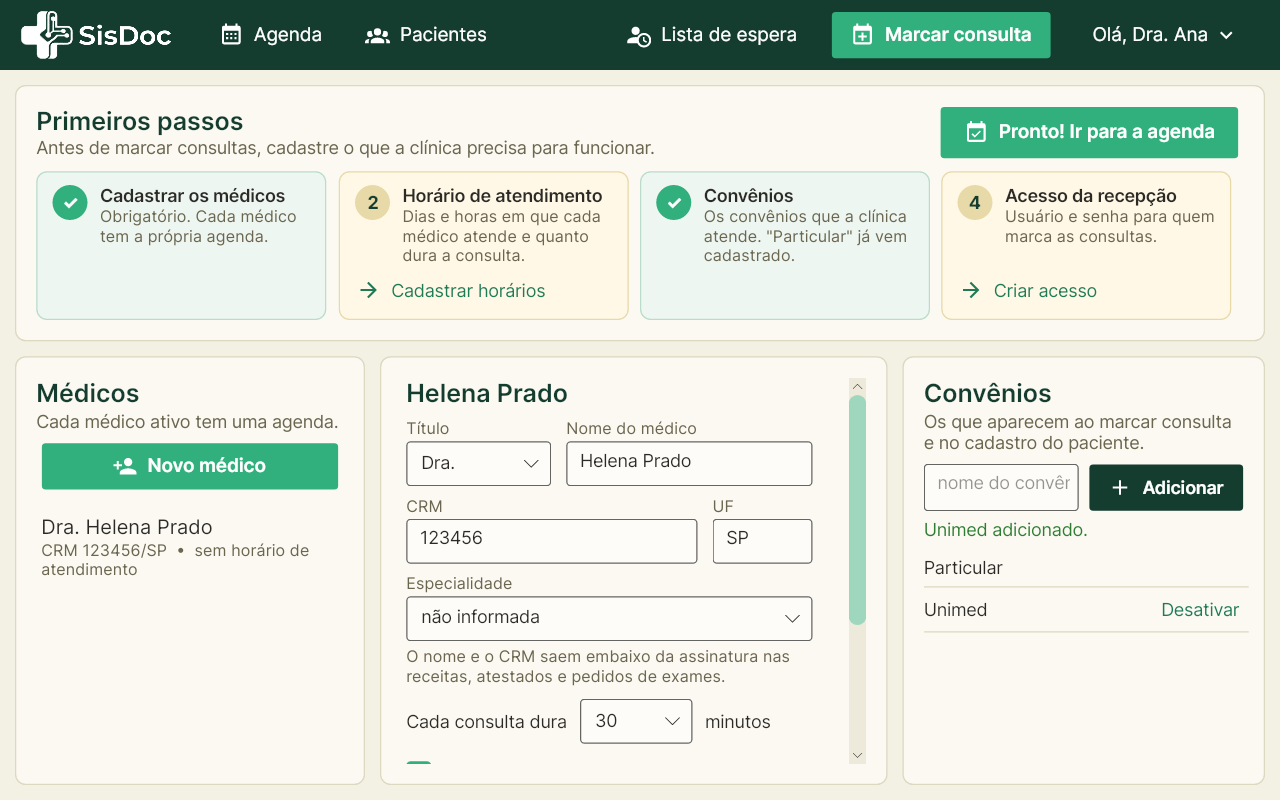
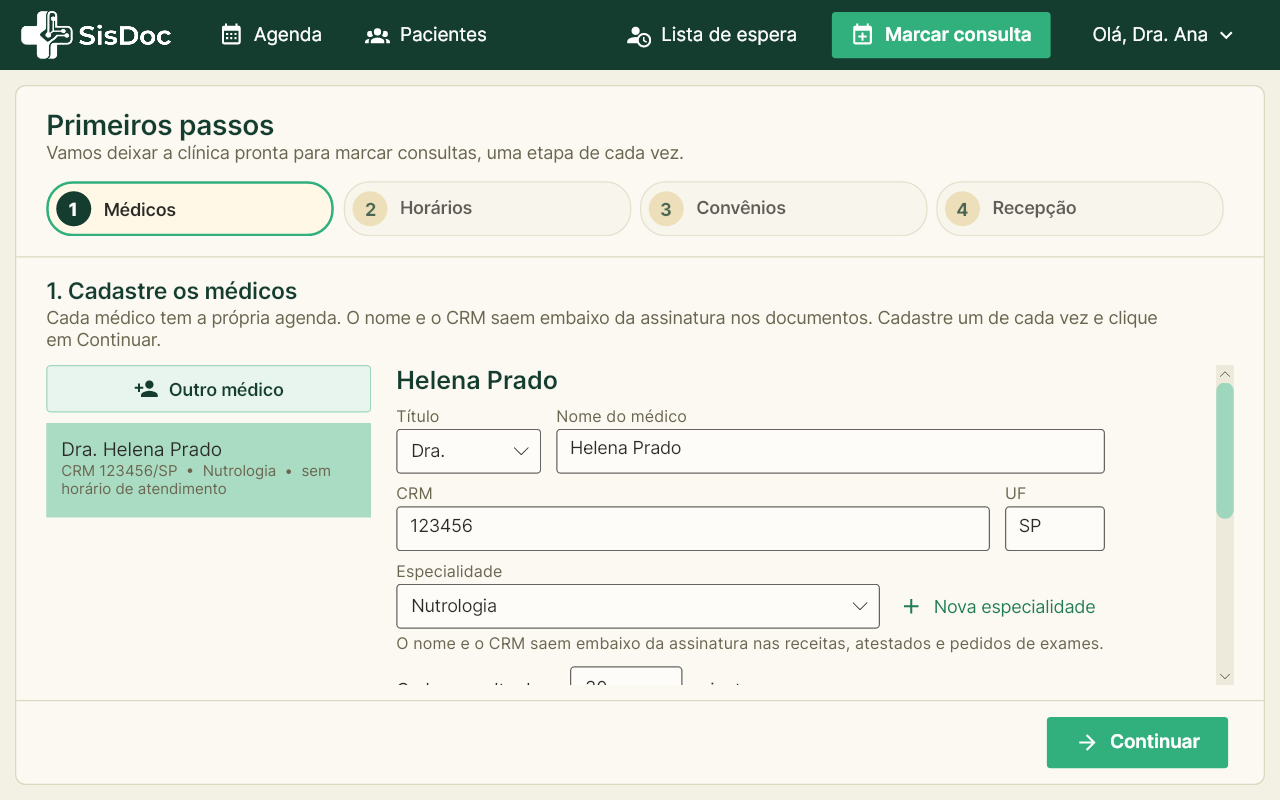
Site atualizado a partir de 89ddc9b

diff --git a/seguranca.html b/seguranca.html
@@ -86,8 +86,9 @@
           <div class="card">
             <h3>O que fica registrado</h3>
             <ul class="checklist">
-              <li>Cada anotação do prontuário mostra quem escreveu e quando</li>
-              <li>Ficam registrados: entradas e senhas erradas, quem abriu ou imprimiu prontuário, exames, documentos e anexos, e mudanças de usuários e senhas</li>
+              <li>Cada anotação do prontuário, resultado de exame e documento é <b>assinado eletronicamente</b> pelo médico, com a senha de assinatura dele: mostra nome, CRM, data e hora, e guarda um código que denuncia qualquer mudança no texto</li>
+              <li>Só o médico escreve no prontuário e emite documentos. O administrador lê, mas não escreve</li>
+              <li>Ficam registrados: entradas e senhas erradas, tentativas de assinatura com senha errada, quem abriu ou imprimiu prontuário, exames, documentos e anexos, e mudanças de usuários e senhas</li>
               <li>O administrador vê tudo no relatório <b>Registro de acessos</b></li>
               <li>Paciente não é apagado: fica inativo, com o histórico guardado</li>
             </ul>
@@ -103,7 +104,7 @@
           <div class="card">
             <h3>Instalação e atualizações</h3>
             <ul class="checklist">
-              <li>Cada computador é ativado uma vez pelo responsável pelo SisDoc</li>
+              <li>Cada computador é ativado uma vez pelo responsável pelo SisDoc: o instalador pede o e-mail e a senha de licença</li>
               <li>Antes de instalar uma atualização, o SisDoc confere o arquivo e a assinatura digital do responsável. Se não conferir, apaga e não instala</li>
               <li>A senha do banco fica criptografada em cada computador, e os backups ficam numa pasta que só o administrador do Windows abre</li>
             </ul>
@@ -137,7 +138,7 @@
         </div>
         <ul class="checklist" style="margin-top:16px">
           <li>O SisDoc <b>não tem certificação SBIS/CFM</b> de sistema de registro eletrônico de saúde.</li>
-          <li>O SisDoc <b>não assina documentos com certificado digital ICP-Brasil</b>. Receitas, atestados e pedidos de exame são impressos e assinados à mão pelo médico.</li>
+          <li>O SisDoc <b>não assina documentos com certificado digital ICP-Brasil</b>. A assinatura eletrônica do SisDoc é por senha: registra quem emitiu e quando, mas não substitui o certificado. Receitas, atestados e pedidos de exame continuam sendo impressos e assinados à mão pelo médico.</li>
           <li>Por isso, o prontuário eletrônico do SisDoc <b>não dispensa o prontuário em papel</b> assinado, nos casos em que as normas do CFM exigem.</li>
           <li>O prontuário deve ser guardado por pelo menos 20 anos depois do último registro (Resolução CFM 1.821/2007). No SisDoc, isso depende dos backups que a clínica faz e guarda.</li>
         </ul>
@@ -163,7 +164,8 @@
         <h2>Backup</h2>
         <p>O computador principal faz uma cópia dos dados todo dia às 21:00, em <code>C:\ProgramData\SisDoc\Backups</code>. Os backups têm todos os dados dos pacientes e <b>não são criptografados</b>. Para protegê-los:</p>
         <ul class="checklist">
-          <li>Toda semana, copie a pasta para um HD externo e guarde-o fora do computador principal, de preferência fora da clínica. Assim um defeito, um roubo ou um vírus não leva os dados e o backup juntos.</li>
+          <li>No <b>SisDoc - Banco de dados</b>, aba <b>Backup</b>, escolha uma pasta para a cópia automática de cada backup: um HD externo, a pasta de outro computador da rede ou uma pasta do Google Drive ou OneDrive. Se a cópia falhar, a tela avisa.</li>
+          <li>Mesmo assim, de vez em quando guarde uma cópia num HD fora do computador principal, de preferência fora da clínica. Assim um defeito, um roubo ou um vírus não leva os dados e o backup juntos.</li>
           <li>Ligue o <b>BitLocker</b> (Windows 10 e 11 Pro) no computador principal e no HD externo. Se o computador ou o HD forem roubados, os dados não podem ser lidos.</li>
           <li>De vez em quando, abra o <b>SisDoc - Banco de dados</b>, aba <b>Backup</b>, e confira se há um backup de cada dia.</li>
         </ul>

diff --git a/baixar.html b/baixar.html
@@ -119,6 +119,7 @@
             <ul class="checklist">
               <li>Todos os computadores na mesma rede, por exemplo todos em <code>192.168.0.x</code> (o Wi-Fi de convidados não serve)</li>
               <li>Vindo do SisDoc antigo? Tenha à mão o arquivo <code>.mdb</code> e a pasta <b>Anexos</b></li>
+              <li>Chame o responsável pelo SisDoc: o instalador pede o e-mail e a senha de licença</li>
             </ul>
           </div>
         </div>
@@ -141,6 +142,10 @@
             <p style="margin-top:12px">Depois, quando o Windows perguntar se o programa pode fazer alterações, clique em <b>Sim</b>.</p>
           </li>
           <li>
+            <h3>Digite a licença</h3>
+            <p>Na tela <b>Licença do SisDoc</b>, digite o e-mail e a senha de licença. Quem tem esses dados é o responsável pelo SisDoc: chame-o nessa hora. Assim o computador já fica ativado e o SisDoc abre direto.</p>
+          </li>
+          <li>
             <h3>Escolha "Computador principal da clínica"</h3>
             <p>Clique em <b>Avançar</b> até o fim e espere alguns minutos: a tela mostra as etapas 1 de 3, 2 de 3 e 3 de 3.</p>
             <p>Este computador já tinha o SisDoc? Escolha <b>Usar o banco que já existe</b> para continuar com os mesmos dados.</p>
@@ -154,17 +159,14 @@
             </div>
           </li>
           <li>
-            <h3>Ative o SisDoc</h3>
-            <p>Abra o SisDoc pelo ícone na área de trabalho. Na tela <b>Ativar o SisDoc neste computador</b>, chame o responsável pelo SisDoc: só ele tem o e-mail e a senha de ativação. É uma vez só por computador.</p>
-          </li>
-          <li>
             <h3>Comece do zero ou traga o SisDoc antigo</h3>
+            <p>Abra o SisDoc pelo ícone na área de trabalho.</p>
             <p><b>Começar do zero:</b> crie o primeiro usuário, que será o administrador, e entre com ele.</p>
             <p><b>Importar do SisDoc antigo:</b> escolha o arquivo <code>.mdb</code> e a pasta <b>Anexos</b>. Médicos, convênios, pacientes, consultas e prontuários vêm junto. No fim aparecem o usuário e a senha de um <b>administrador novo</b>: anote e entre com ele. Os usuários antigos entram como Recepção, com a senha de antes, e criam uma senha nova no primeiro acesso. Em <i>"Olá, seu nome" → Acessos e senhas</i>, mude para Médico quem for médico.</p>
           </li>
           <li>
             <h3>Cadastre a clínica</h3>
-            <p>A tela <b>Primeiros passos</b> abre sozinha. Cadastre os médicos, os horários de atendimento, os convênios e o acesso da recepção. Depois, clique em <b>Pronto! Ir para a agenda</b>.</p>
+            <p>Os <b>Primeiros passos</b> abrem sozinhos e vão de etapa em etapa: os médicos (com a senha de assinatura de cada um), os horários de atendimento, os convênios (os mais comuns já vêm cadastrados) e o acesso da recepção. No fim, clique em <b>Pronto! Ir para a agenda</b>.</p>
             <img class="zoomable" src="images/42-primeiros-passos.png" width="1280" height="800" loading="lazy" style="border-radius:12px;border:1px solid var(--border);margin-top:14px" alt="Tela Primeiros passos do SisDoc, com as quatro etapas de cadastro da clínica.">
           </li>
         </ol>

diff --git a/index.html b/index.html
@@ -138,8 +138,9 @@
           <div class="feature-text">
             <p class="eyebrow">Atendimento</p>
             <h3>Receita, atestado e exames sem sair da consulta</h3>
-            <p class="lead">A ficha do paciente fica à esquerda e as abas de anotação, receita, atestado e pedido de exames à direita. Os documentos saem prontos para o papel timbrado, com o nome e o CRM do médico.</p>
+            <p class="lead">A ficha do paciente fica à esquerda e as abas de anotação, receita, atestado e pedido de exames à direita. Tudo sai assinado eletronicamente, com a senha de assinatura do médico, o nome, o CRM, a data e a hora.</p>
             <ul class="checklist">
+              <li>Receita, atestado e pedido também pela ficha, sem abrir atendimento</li>
               <li>Catálogo de remédios e uso contínuo</li>
               <li>Modelos de atestado e de exames</li>
               <li>O que foi escrito fica guardado sozinho</li>
@@ -172,7 +173,7 @@
           <div class="feature-text">
             <p class="eyebrow">Primeiro uso</p>
             <h3>Pronto para usar em poucos minutos</h3>
-            <p class="lead">Na primeira vez, o SisDoc mostra o que falta cadastrar: médicos, horários, convênios e o acesso da recepção. Quem já usa o SisDoc antigo traz tudo de lá com um clique.</p>
+            <p class="lead">Na primeira vez, o SisDoc leva você de etapa em etapa: médicos, horários, convênios e o acesso da recepção. Convênios e remédios comuns já vêm cadastrados. Quem já usa o SisDoc antigo traz tudo de lá com um clique.</p>
             <ul class="checklist">
               <li>Horários já vêm preenchidos, é só ajustar</li>
               <li>Importação do SisDoc antigo, com anexos</li>
@@ -294,7 +295,7 @@
           </details>
           <details class="reveal">
             <summary>Como faço para ativar o SisDoc?</summary>
-            <div><p>Na primeira vez em cada computador, aparece a tela <b>Ativar o SisDoc neste computador</b>. A ativação é feita pelo responsável pelo SisDoc, uma vez só: chame-o na hora de instalar.</p></div>
+            <div><p>O instalador pede o e-mail e a senha de licença, uma vez em cada computador. Quem tem esses dados é o responsável pelo SisDoc: chame-o na hora de instalar.</p></div>
           </details>
           <details class="reveal">
             <summary>Como recebo as versões novas?</summary>

diff --git a/assets/manual.js b/assets/manual.js
@@ -50,6 +50,10 @@ const IMAGES = {
   "Como usar os dados de outro computador (ou voltar a usar os deste)?": ["10-assistente-conexao", "Tela para conectar aos dados de outro computador."],
   "Apareceu \"Nova versão do SisDoc\". O que eu faço?": ["40-atualizacao", "Janela de atualização baixando a versão nova."],
   "Posso deixar este manual aberto enquanto uso o SisDoc?": ["16-ajuda", "Manual aberto ao lado da agenda."],
+  "O que significam as cores do calendário?": ["31-agenda-dia", "Calendário da agenda com os dias com horário livre e os bloqueados pintados, e a legenda embaixo."],
+  "O que é a senha de assinatura?": ["55-assinatura", "Janela que pede a senha de assinatura antes de registrar no prontuário."],
+  "Como fazer receita, atestado ou pedido de exames sem abrir um atendimento?": ["54-documentos-pela-ficha", "Janela de documentos aberta pela ficha do paciente, na aba Atestado."],
+  "Como fazer um backup ou começar com um banco novo?": ["45-backup", "Aba Backup do SisDoc - Banco de dados, com a cópia em outro lugar."],
 };
 
 const LEGEND = {
